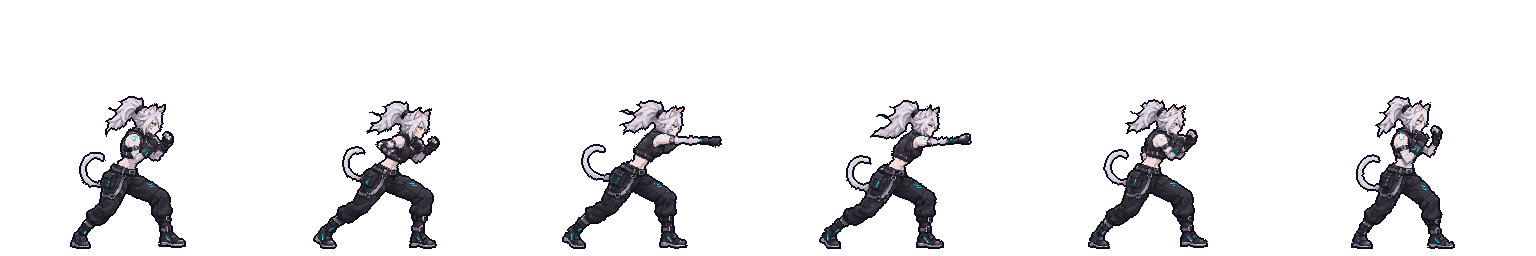
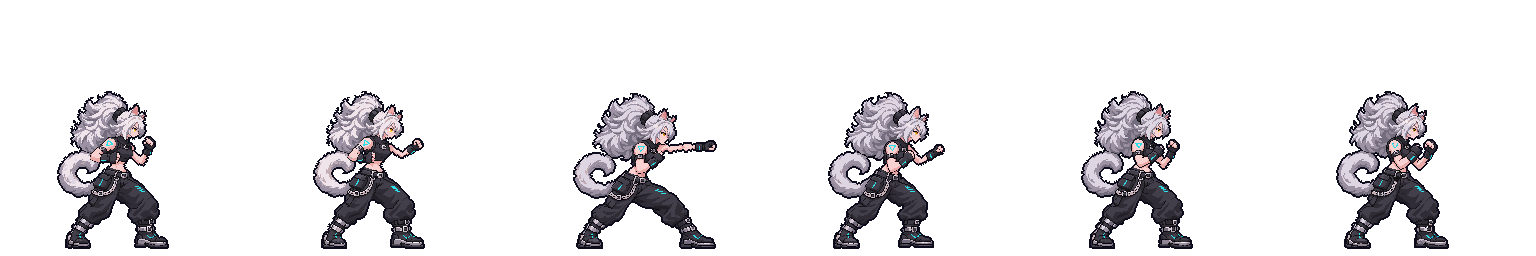
feat(feline) : la Griffe vive (jab) vient des nouvelles frames, avec la fente, en HD ×2
- standLight (6 frames, la 3e frappe) : la garde, l'armé, le jab avec un pas en avant,
  le retour, puis la garde. Les frames 3 et 4 sont les deux images avec le pas,
  calées sur le pied arrière de la garde, qui ne bouge pas de tout le coup.
- Son poing arrive à 38 px devant ses pieds, pour une zone de frappe qui va jusqu'à
  40 px : le coup se lit. Le gameplay ne change pas.

Claude-Session: https://claude.ai/code/session_01JBLzLMjZS6VPwWpKajS2YB

diff --git a/tests/tools/feline-hd.test.ts b/tests/tools/feline-hd.test.ts
@@ -9,7 +9,7 @@ const atlasOf = async (path: string): Promise<Atlas> =>
   JSON.parse(new TextDecoder().decode(await readFile(art(path)))) as Atlas;
 
 describe('Feline in HD (tools/sprites/generate.ts keepHd)', () => {
-  it('shows her guard, walks, crouch, jumps, block, dash and Pas de velours from their HD images, in both colorways', () => {
+  it('shows her guard, walks, crouch, jumps, block, jab, dash and Pas de velours from their HD images, in both colorways', () => {
     expect(Object.keys(FELINE.hd ?? {})).toEqual([
       'idle',
       'walkForward',
@@ -18,6 +18,7 @@ describe('Feline in HD (tools/sprites/generate.ts keepHd)', () => {
       'jump',
       'jumpForward',
       'block',
+      'standLight',
       'dashForward',
       'forwardLight',
     ]);
@@ -29,6 +30,7 @@ describe('Feline in HD (tools/sprites/generate.ts keepHd)', () => {
       'jump',
       'jumpForward',
       'block',
+      'standLight',
       'dashForward',
       'forwardLight',
     ]);

diff --git a/src/art/feline/cells.ts b/src/art/feline/cells.ts
@@ -160,16 +160,16 @@ export const FELINE_CELLS: Readonly<Record<string, Cell>> = {
     ],
   },
   standLight: {
-    width: 164,
-    height: 157,
-    anchor: { x: 80, y: 154 },
+    width: 153,
+    height: 162,
+    anchor: { x: 74, y: 159 },
     frames: [
-      { x: 22, y: 2, width: 116, height: 153 },
-      { x: 9, y: 7, width: 127, height: 148 },
-      { x: 2, y: 6, width: 160, height: 149 },
-      { x: 3, y: 6, width: 153, height: 149 },
-      { x: 16, y: 5, width: 120, height: 150 },
-      { x: 23, y: 2, width: 104, height: 153 },
+      { x: 3, y: 2, width: 112, height: 158 },
+      { x: 3, y: 2, width: 112, height: 158 },
+      { x: 7, y: 4, width: 144, height: 156 },
+      { x: 6, y: 3, width: 117, height: 157 },
+      { x: 3, y: 2, width: 112, height: 158 },
+      { x: 2, y: 2, width: 113, height: 158 },
     ],
   },
   'fx/standLight': {
